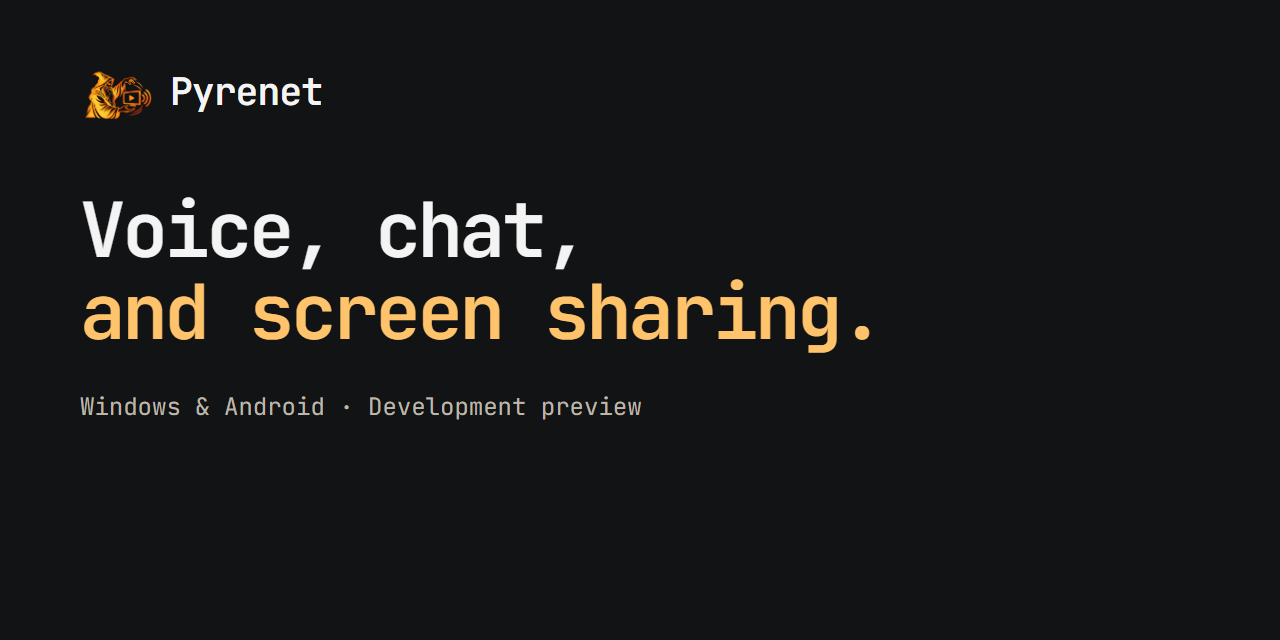
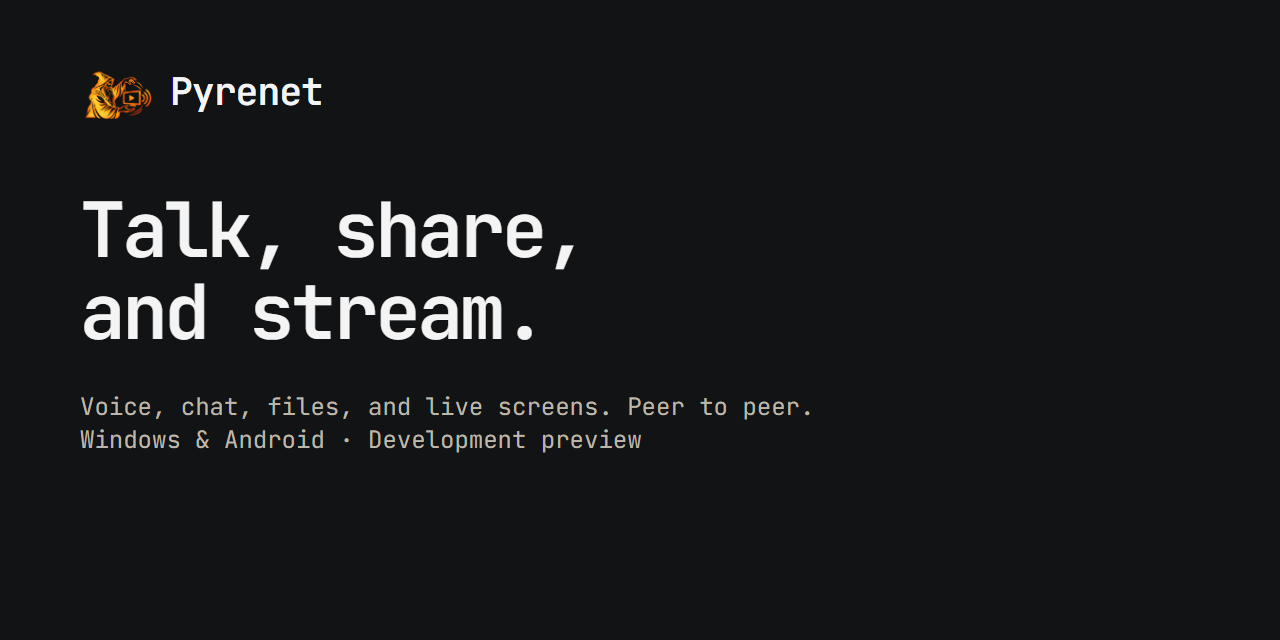
Clarify peer-to-peer media positioning and simplify the hero

Changed region(s): [[0.0625, 0.3125, 0.6875, 0.5625], [0.0625, 0.625, 0.625, 0.7188]]

diff --git a/index.html b/index.html
@@ -5,9 +5,9 @@
   <meta name="viewport" content="width=device-width, initial-scale=1">
   <meta name="theme-color" content="#0b0d12">
   <meta name="pyrenet-version" content="0.3.3-preview.2">
-  <meta name="description" content="Start a call, share a window, and talk through what’s on screen. Share from Windows. Watch on Windows or Android. Explore the Pyrenet preview.">
+  <meta name="description" content="A peer-to-peer media app for voice, chat, file sharing, and live screens. Share from Windows. Watch on Windows or Android. Explore the Pyrenet preview.">
 
-  <title>Voice, chat, and screen sharing — Pyrenet</title>
+  <title>Talk, share, and stream — Pyrenet</title>
   <link rel="canonical" href="https://antis0007.github.io/fastcast-downloads/">
   <link rel="icon" href="assets/favicon.png" sizes="64x64" type="image/png">
   <link rel="apple-touch-icon" href="assets/apple-touch-icon.png">
@@ -15,15 +15,15 @@
   <link rel="preload" href="assets/windows-share.png" as="image">
   <meta property="og:type" content="website">
   <meta property="og:site_name" content="Pyrenet">
-  <meta property="og:title" content="Voice, chat, and screen sharing — Pyrenet">
-  <meta property="og:description" content="Start a call, share a window, and talk through what’s on screen. Share from Windows. Watch on Windows or Android. Explore the Pyrenet preview.">
+  <meta property="og:title" content="Talk, share, and stream — Pyrenet">
+  <meta property="og:description" content="A peer-to-peer media app for voice, chat, file sharing, and live screens. Share from Windows. Watch on Windows or Android. Explore the Pyrenet preview.">
   <meta property="og:url" content="https://antis0007.github.io/fastcast-downloads/">
   <meta property="og:image" content="https://antis0007.github.io/fastcast-downloads/assets/og.png">
   <meta property="og:image:width" content="1280">
   <meta property="og:image:height" content="640">
-  <meta property="og:image:alt" content="Pyrenet. Voice, chat, and screen sharing. Windows and Android preview.">
+  <meta property="og:image:alt" content="Pyrenet. Talk, share, and stream. Peer-to-peer voice, chat, files, and live screens. Windows and Android preview.">
   <meta name="twitter:card" content="summary_large_image">
-  <script type="application/ld+json">{"@context": "https://schema.org", "@type": "SoftwareApplication", "name": "Pyrenet", "applicationCategory": "MultimediaApplication", "operatingSystem": "Windows (send and receive); Android 8+ (receive only)", "softwareVersion": "0.3.3-preview.2", "url": "https://antis0007.github.io/fastcast-downloads/", "downloadUrl": "https://antis0007.github.io/fastcast-downloads/downloads.html", "image": "https://antis0007.github.io/fastcast-downloads/assets/og.png", "description": "Start a call, share a window, and talk through what’s on screen. Share from Windows. Watch on Windows or Android. Explore the Pyrenet preview.", "offers": {"@type": "Offer", "price": "0", "priceCurrency": "USD", "description": "Screen sharing does not require an account. Friends, calls, rooms and files use a device-owned account in this preview."}}</script>
+  <script type="application/ld+json">{"@context": "https://schema.org", "@type": "SoftwareApplication", "name": "Pyrenet", "applicationCategory": "MultimediaApplication", "operatingSystem": "Windows (send and receive); Android 8+ (receive only)", "softwareVersion": "0.3.3-preview.2", "url": "https://antis0007.github.io/fastcast-downloads/", "downloadUrl": "https://antis0007.github.io/fastcast-downloads/downloads.html", "image": "https://antis0007.github.io/fastcast-downloads/assets/og.png", "description": "A peer-to-peer media app for voice, chat, file sharing, and live screens. Share from Windows. Watch on Windows or Android. Explore the Pyrenet preview.", "offers": {"@type": "Offer", "price": "0", "priceCurrency": "USD", "description": "Screen sharing does not require an account. Friends, calls, rooms and files use a device-owned account in this preview."}}</script>
   <script src="site.js" defer></script>
   <script src="wizard-fx.js" defer></script>
 </head>
@@ -42,8 +42,8 @@
   <main id="main" tabindex="-1"><section class="hero wrap" aria-labelledby="hero-title">
   <div class="hero-copy">
     <p class="eyebrow">Windows &amp; Android · Free preview</p>
-    <h1 id="hero-title">Voice, chat,<br><span>and screen sharing.</span></h1>
-    <p class="lede">Start a call, share a window, and talk through what’s on screen.</p>
+    <h1 id="hero-title">Talk, share, and stream.</h1>
+    <p class="lede">A peer-to-peer media app for voice, chat, file sharing, and live screens.</p>
     <div class="actions">
       <a class="button primary" data-download="windows" href="https://github.com/antis0007/fastcast-downloads/releases/download/v0.3.3-preview.2/FastCast-0.3.3-preview.2-Setup.exe">Download for Windows <span aria-hidden="true">↓</span></a>
       <a class="button" data-download="android" href="https://github.com/antis0007/fastcast-downloads/releases/download/v0.3.3-preview.2/FastCast-0.3.3-preview.2-Android.apk">Get the Android app <span aria-hidden="true">↓</span></a>
@@ -224,7 +224,7 @@
 </section>
 </main>
   <footer class="site-footer wrap">
-    <div class="footer-intro"><a class="brand footer-brand" href="index.html" aria-label="Pyrenet home"><img class="brand-mark" src="assets/fastcast-wizard.webp" width="1203" height="926" alt=""><span class="brand-wordmark">Pyrenet</span></a><p>Voice, chat, and screen sharing.</p><p class="small-copy">Screen sharing does not require an account. Friends, calls, rooms and files use a device-owned account in this preview.</p><p class="small-copy">Native application source is maintained separately. This repository publishes the website and preview packages only.</p></div>
+    <div class="footer-intro"><a class="brand footer-brand" href="index.html" aria-label="Pyrenet home"><img class="brand-mark" src="assets/fastcast-wizard.webp" width="1203" height="926" alt=""><span class="brand-wordmark">Pyrenet</span></a><p>Talk, share, and stream.</p><p class="small-copy">Screen sharing does not require an account. Friends, calls, rooms and files use a device-owned account in this preview.</p><p class="small-copy">Native application source is maintained separately. This repository publishes the website and preview packages only.</p></div>
     <nav aria-label="Product links"><h2>Product</h2><a href="product.html">Overview</a><a href="downloads.html">Downloads</a><a href="platforms.html">Platforms</a><a href="releases.html">Release notes</a></nav>
     <nav aria-label="Resources"><h2>Resources</h2><a href="get-started.html">Setup</a><a href="help.html">Help</a><a href="community.html">Bugs</a><a href="privacy.html">Privacy</a></nav>
     <nav aria-label="More"><h2>More</h2><a href="why-pyrenet.html">Why Pyrenet</a><a href="calls-and-rooms.html">Calls & rooms</a><a href="how-it-works.html">How it works</a><a href="roadmap.html">Roadmap</a><a href="bandwidth.html">Bandwidth calculator</a><a href="data-and-privacy.html">Data & privacy compared</a></nav>

diff --git a/privacy.html b/privacy.html
@@ -21,7 +21,7 @@
   <meta property="og:image" content="https://antis0007.github.io/fastcast-downloads/assets/og.png">
   <meta property="og:image:width" content="1280">
   <meta property="og:image:height" content="640">
-  <meta property="og:image:alt" content="Pyrenet. Voice, chat, and screen sharing. Windows and Android preview.">
+  <meta property="og:image:alt" content="Pyrenet. Talk, share, and stream. Peer-to-peer voice, chat, files, and live screens. Windows and Android preview.">
   <meta name="twitter:card" content="summary_large_image">
 
   <script src="site.js" defer></script>
@@ -43,7 +43,7 @@
 <div class="wrap reading-column"><section><h2>This website</h2><p>The Pyrenet website is a static site hosted on GitHub Pages. Its code includes no analytics, advertising scripts, tracking pixels, account system, or billing forms. Fonts and site images are hosted with the website.</p><p>The help search runs in your browser. Search terms are not sent to Pyrenet. The site’s own JavaScript does not set cookies or save browser storage.</p></section><section><h2>GitHub hosting, downloads, and feedback</h2><p>GitHub serves this site and the release downloads. Visiting those services can involve request logging under <a href="https://docs.github.com/en/site-policy/privacy-policies/github-general-privacy-statement">GitHub’s privacy statement</a>.</p><p>Feedback links lead to public GitHub issues. Anything you post there is public, and posting requires a GitHub account. Avoid sharing personal information or private session details.</p></section><section><h2>Screen content and invitations</h2><p>An entire-screen share can include notifications and personal information. Choose a specific window where appropriate and review what is visible before starting.</p><p>Treat invitations and recovery codes as private. Do not attach them to bug reports or leave them visible in screenshots. Enable microphone, audio, and remote input only when intended for the session.</p></section><section><h2>Automatic network discovery</h2><p>When a receiver is waiting for a connection, it automatically contacts Pyrenet's own STUN service, falling back to Cloudflare's and Twilio's public STUN services, to discover a reachable address, and asks your router (via UPnP, NAT-PMP, or PCP) to open a temporary port mapping. These requests happen every time the receiver starts. This public preview has no setting to turn them off.</p><p>The STUN providers see the receiver's public IP address and the fact that a STUN request was made; they do not see screen content, audio, or account information. If a session cannot reach its peer directly, the Pyrenet relay forwards that session's media and therefore carries it. Your router sees the local mapping request. Router leases expire on their own (around two hours) and are renewed only while the receiver is active.</p></section><section><h2>App privacy and security scope</h2><p>This page describes the website and practical sharing precautions. It is not a security audit of the native app, a claim of universal end-to-end privacy, or a guarantee about every device and network.</p><p>For the current package’s implementation and testing boundaries, read the <a href="releases.html">release notes</a>. If you report a suspected security issue in the public tracker, start with a minimal description and omit credentials, private data, and exploit details.</p></section></div>
 </main>
   <footer class="site-footer wrap">
-    <div class="footer-intro"><a class="brand footer-brand" href="index.html" aria-label="Pyrenet home"><img class="brand-mark" src="assets/fastcast-wizard.webp" width="1203" height="926" alt=""><span class="brand-wordmark">Pyrenet</span></a><p>Voice, chat, and screen sharing.</p><p class="small-copy">Screen sharing does not require an account. Friends, calls, rooms and files use a device-owned account in this preview.</p><p class="small-copy">Native application source is maintained separately. This repository publishes the website and preview packages only.</p></div>
+    <div class="footer-intro"><a class="brand footer-brand" href="index.html" aria-label="Pyrenet home"><img class="brand-mark" src="assets/fastcast-wizard.webp" width="1203" height="926" alt=""><span class="brand-wordmark">Pyrenet</span></a><p>Talk, share, and stream.</p><p class="small-copy">Screen sharing does not require an account. Friends, calls, rooms and files use a device-owned account in this preview.</p><p class="small-copy">Native application source is maintained separately. This repository publishes the website and preview packages only.</p></div>
     <nav aria-label="Product links"><h2>Product</h2><a href="product.html">Overview</a><a href="downloads.html">Downloads</a><a href="platforms.html">Platforms</a><a href="releases.html">Release notes</a></nav>
     <nav aria-label="Resources"><h2>Resources</h2><a href="get-started.html">Setup</a><a href="help.html">Help</a><a href="community.html">Bugs</a><a href="privacy.html" aria-current="page">Privacy</a></nav>
     <nav aria-label="More"><h2>More</h2><a href="why-pyrenet.html">Why Pyrenet</a><a href="calls-and-rooms.html">Calls & rooms</a><a href="how-it-works.html">How it works</a><a href="roadmap.html">Roadmap</a><a href="bandwidth.html">Bandwidth calculator</a><a href="data-and-privacy.html">Data & privacy compared</a></nav>

diff --git a/downloads.html b/downloads.html
@@ -21,9 +21,9 @@
   <meta property="og:image" content="https://antis0007.github.io/fastcast-downloads/assets/og.png">
   <meta property="og:image:width" content="1280">
   <meta property="og:image:height" content="640">
-  <meta property="og:image:alt" content="Pyrenet. Voice, chat, and screen sharing. Windows and Android preview.">
+  <meta property="og:image:alt" content="Pyrenet. Talk, share, and stream. Peer-to-peer voice, chat, files, and live screens. Windows and Android preview.">
   <meta name="twitter:card" content="summary_large_image">
-  <script type="application/ld+json">{"@context": "https://schema.org", "@type": "SoftwareApplication", "name": "Pyrenet", "applicationCategory": "MultimediaApplication", "operatingSystem": "Windows (send and receive); Android 8+ (receive only)", "softwareVersion": "0.3.3-preview.2", "url": "https://antis0007.github.io/fastcast-downloads/", "downloadUrl": "https://antis0007.github.io/fastcast-downloads/downloads.html", "image": "https://antis0007.github.io/fastcast-downloads/assets/og.png", "description": "Start a call, share a window, and talk through what’s on screen. Share from Windows. Watch on Windows or Android. Explore the Pyrenet preview.", "offers": {"@type": "Offer", "price": "0", "priceCurrency": "USD", "description": "Screen sharing does not require an account. Friends, calls, rooms and files use a device-owned account in this preview."}}</script>
+  <script type="application/ld+json">{"@context": "https://schema.org", "@type": "SoftwareApplication", "name": "Pyrenet", "applicationCategory": "MultimediaApplication", "operatingSystem": "Windows (send and receive); Android 8+ (receive only)", "softwareVersion": "0.3.3-preview.2", "url": "https://antis0007.github.io/fastcast-downloads/", "downloadUrl": "https://antis0007.github.io/fastcast-downloads/downloads.html", "image": "https://antis0007.github.io/fastcast-downloads/assets/og.png", "description": "A peer-to-peer media app for voice, chat, file sharing, and live screens. Share from Windows. Watch on Windows or Android. Explore the Pyrenet preview.", "offers": {"@type": "Offer", "price": "0", "priceCurrency": "USD", "description": "Screen sharing does not require an account. Friends, calls, rooms and files use a device-owned account in this preview."}}</script>
   <script src="site.js" defer></script>
 
 </head>
@@ -53,7 +53,7 @@
 <section class="closing-cta wrap"><div><h2>Set up screen sharing</h2><p>After installing matching versions, create an invitation on the watching device.</p></div><a class="button" href="get-started.html">Setup →</a></section>
 </main>
   <footer class="site-footer wrap">
-    <div class="footer-intro"><a class="brand footer-brand" href="index.html" aria-label="Pyrenet home"><img class="brand-mark" src="assets/fastcast-wizard.webp" width="1203" height="926" alt=""><span class="brand-wordmark">Pyrenet</span></a><p>Voice, chat, and screen sharing.</p><p class="small-copy">Screen sharing does not require an account. Friends, calls, rooms and files use a device-owned account in this preview.</p><p class="small-copy">Native application source is maintained separately. This repository publishes the website and preview packages only.</p></div>
+    <div class="footer-intro"><a class="brand footer-brand" href="index.html" aria-label="Pyrenet home"><img class="brand-mark" src="assets/fastcast-wizard.webp" width="1203" height="926" alt=""><span class="brand-wordmark">Pyrenet</span></a><p>Talk, share, and stream.</p><p class="small-copy">Screen sharing does not require an account. Friends, calls, rooms and files use a device-owned account in this preview.</p><p class="small-copy">Native application source is maintained separately. This repository publishes the website and preview packages only.</p></div>
     <nav aria-label="Product links"><h2>Product</h2><a href="product.html">Overview</a><a href="downloads.html" aria-current="page">Downloads</a><a href="platforms.html">Platforms</a><a href="releases.html">Release notes</a></nav>
     <nav aria-label="Resources"><h2>Resources</h2><a href="get-started.html">Setup</a><a href="help.html">Help</a><a href="community.html">Bugs</a><a href="privacy.html">Privacy</a></nav>
     <nav aria-label="More"><h2>More</h2><a href="why-pyrenet.html">Why Pyrenet</a><a href="calls-and-rooms.html">Calls & rooms</a><a href="how-it-works.html">How it works</a><a href="roadmap.html">Roadmap</a><a href="bandwidth.html">Bandwidth calculator</a><a href="data-and-privacy.html">Data & privacy compared</a></nav>

diff --git a/404.html b/404.html
@@ -21,7 +21,7 @@
   <meta property="og:image" content="https://antis0007.github.io/fastcast-downloads/assets/og.png">
   <meta property="og:image:width" content="1280">
   <meta property="og:image:height" content="640">
-  <meta property="og:image:alt" content="Pyrenet. Voice, chat, and screen sharing. Windows and Android preview.">
+  <meta property="og:image:alt" content="Pyrenet. Talk, share, and stream. Peer-to-peer voice, chat, files, and live screens. Windows and Android preview.">
   <meta name="twitter:card" content="summary_large_image">
 
   <script src="https://antis0007.github.io/fastcast-downloads/site.js" defer></script>
@@ -42,7 +42,7 @@
   <main id="main" tabindex="-1"><section class="page-hero wrap"><h1>Page not found</h1><p class="lede">This address may be incorrect or the page may have moved. Use the links below to find downloads and help.</p><div class="actions"><a class="button primary" href="https://antis0007.github.io/fastcast-downloads/index.html">Home →</a><a class="text-link" href="https://antis0007.github.io/fastcast-downloads/downloads.html">Downloads ↓</a><a class="text-link" href="https://antis0007.github.io/fastcast-downloads/help.html">Help →</a></div></section>
 </main>
   <footer class="site-footer wrap">
-    <div class="footer-intro"><a class="brand footer-brand" href="https://antis0007.github.io/fastcast-downloads/index.html" aria-label="Pyrenet home"><img class="brand-mark" src="https://antis0007.github.io/fastcast-downloads/assets/fastcast-wizard.webp" width="1203" height="926" alt=""><span class="brand-wordmark">Pyrenet</span></a><p>Voice, chat, and screen sharing.</p><p class="small-copy">Screen sharing does not require an account. Friends, calls, rooms and files use a device-owned account in this preview.</p><p class="small-copy">Native application source is maintained separately. This repository publishes the website and preview packages only.</p></div>
+    <div class="footer-intro"><a class="brand footer-brand" href="https://antis0007.github.io/fastcast-downloads/index.html" aria-label="Pyrenet home"><img class="brand-mark" src="https://antis0007.github.io/fastcast-downloads/assets/fastcast-wizard.webp" width="1203" height="926" alt=""><span class="brand-wordmark">Pyrenet</span></a><p>Talk, share, and stream.</p><p class="small-copy">Screen sharing does not require an account. Friends, calls, rooms and files use a device-owned account in this preview.</p><p class="small-copy">Native application source is maintained separately. This repository publishes the website and preview packages only.</p></div>
     <nav aria-label="Product links"><h2>Product</h2><a href="https://antis0007.github.io/fastcast-downloads/product.html">Overview</a><a href="https://antis0007.github.io/fastcast-downloads/downloads.html">Downloads</a><a href="https://antis0007.github.io/fastcast-downloads/platforms.html">Platforms</a><a href="https://antis0007.github.io/fastcast-downloads/releases.html">Release notes</a></nav>
     <nav aria-label="Resources"><h2>Resources</h2><a href="https://antis0007.github.io/fastcast-downloads/get-started.html">Setup</a><a href="https://antis0007.github.io/fastcast-downloads/help.html">Help</a><a href="https://antis0007.github.io/fastcast-downloads/community.html">Bugs</a><a href="https://antis0007.github.io/fastcast-downloads/privacy.html">Privacy</a></nav>
     <nav aria-label="More"><h2>More</h2><a href="https://antis0007.github.io/fastcast-downloads/why-pyrenet.html">Why Pyrenet</a><a href="https://antis0007.github.io/fastcast-downloads/calls-and-rooms.html">Calls & rooms</a><a href="https://antis0007.github.io/fastcast-downloads/how-it-works.html">How it works</a><a href="https://antis0007.github.io/fastcast-downloads/roadmap.html">Roadmap</a><a href="https://antis0007.github.io/fastcast-downloads/bandwidth.html">Bandwidth calculator</a><a href="https://antis0007.github.io/fastcast-downloads/data-and-privacy.html">Data & privacy compared</a></nav>

diff --git a/how-it-works.html b/how-it-works.html
@@ -21,7 +21,7 @@
   <meta property="og:image" content="https://antis0007.github.io/fastcast-downloads/assets/og.png">
   <meta property="og:image:width" content="1280">
   <meta property="og:image:height" content="640">
-  <meta property="og:image:alt" content="Pyrenet. Voice, chat, and screen sharing. Windows and Android preview.">
+  <meta property="og:image:alt" content="Pyrenet. Talk, share, and stream. Peer-to-peer voice, chat, files, and live screens. Windows and Android preview.">
   <meta name="twitter:card" content="summary_large_image">
 
   <script src="site.js" defer></script>
@@ -125,7 +125,7 @@
 <section class="section wrap split-section" id="outside"><div><h2>Preparing your<br>first session</h2></div><div><p>Use a specific window when practical, review audio and input permissions, and share invitations through a channel you trust. Start with a matching Windows/Android release pair and a LAN test to separate setup problems from internet reachability.</p><p>The diagrams describe supported paths. The <a href="releases.html">release evidence</a> says which paths have actually been observed working.</p><a class="text-link" href="get-started.html">Set up your first session →</a></div></section>
 </main>
   <footer class="site-footer wrap">
-    <div class="footer-intro"><a class="brand footer-brand" href="index.html" aria-label="Pyrenet home"><img class="brand-mark" src="assets/fastcast-wizard.webp" width="1203" height="926" alt=""><span class="brand-wordmark">Pyrenet</span></a><p>Voice, chat, and screen sharing.</p><p class="small-copy">Screen sharing does not require an account. Friends, calls, rooms and files use a device-owned account in this preview.</p><p class="small-copy">Native application source is maintained separately. This repository publishes the website and preview packages only.</p></div>
+    <div class="footer-intro"><a class="brand footer-brand" href="index.html" aria-label="Pyrenet home"><img class="brand-mark" src="assets/fastcast-wizard.webp" width="1203" height="926" alt=""><span class="brand-wordmark">Pyrenet</span></a><p>Talk, share, and stream.</p><p class="small-copy">Screen sharing does not require an account. Friends, calls, rooms and files use a device-owned account in this preview.</p><p class="small-copy">Native application source is maintained separately. This repository publishes the website and preview packages only.</p></div>
     <nav aria-label="Product links"><h2>Product</h2><a href="product.html">Overview</a><a href="downloads.html">Downloads</a><a href="platforms.html">Platforms</a><a href="releases.html">Release notes</a></nav>
     <nav aria-label="Resources"><h2>Resources</h2><a href="get-started.html">Setup</a><a href="help.html">Help</a><a href="community.html">Bugs</a><a href="privacy.html">Privacy</a></nav>
     <nav aria-label="More"><h2>More</h2><a href="why-pyrenet.html">Why Pyrenet</a><a href="calls-and-rooms.html">Calls & rooms</a><a href="how-it-works.html" aria-current="page">How it works</a><a href="roadmap.html">Roadmap</a><a href="bandwidth.html">Bandwidth calculator</a><a href="data-and-privacy.html">Data & privacy compared</a></nav>

diff --git a/calls-and-rooms.html b/calls-and-rooms.html
@@ -21,7 +21,7 @@
   <meta property="og:image" content="https://antis0007.github.io/fastcast-downloads/assets/og.png">
   <meta property="og:image:width" content="1280">
   <meta property="og:image:height" content="640">
-  <meta property="og:image:alt" content="Pyrenet. Voice, chat, and screen sharing. Windows and Android preview.">
+  <meta property="og:image:alt" content="Pyrenet. Talk, share, and stream. Peer-to-peer voice, chat, files, and live screens. Windows and Android preview.">
   <meta name="twitter:card" content="summary_large_image">
 
   <script src="site.js" defer></script>
@@ -91,7 +91,7 @@
 <section class="wrap statement"><h2>Accounts are held by the device</h2><p>A device-held key identifies an account. The coordination service carries profiles, friends and invitations, including profile pictures you can choose, change or remove on either platform. It is a small coordination service rather than a fully decentralised identity system, and this site does not claim otherwise.</p></section>
 </main>
   <footer class="site-footer wrap">
-    <div class="footer-intro"><a class="brand footer-brand" href="index.html" aria-label="Pyrenet home"><img class="brand-mark" src="assets/fastcast-wizard.webp" width="1203" height="926" alt=""><span class="brand-wordmark">Pyrenet</span></a><p>Voice, chat, and screen sharing.</p><p class="small-copy">Screen sharing does not require an account. Friends, calls, rooms and files use a device-owned account in this preview.</p><p class="small-copy">Native application source is maintained separately. This repository publishes the website and preview packages only.</p></div>
+    <div class="footer-intro"><a class="brand footer-brand" href="index.html" aria-label="Pyrenet home"><img class="brand-mark" src="assets/fastcast-wizard.webp" width="1203" height="926" alt=""><span class="brand-wordmark">Pyrenet</span></a><p>Talk, share, and stream.</p><p class="small-copy">Screen sharing does not require an account. Friends, calls, rooms and files use a device-owned account in this preview.</p><p class="small-copy">Native application source is maintained separately. This repository publishes the website and preview packages only.</p></div>
     <nav aria-label="Product links"><h2>Product</h2><a href="product.html">Overview</a><a href="downloads.html">Downloads</a><a href="platforms.html">Platforms</a><a href="releases.html">Release notes</a></nav>
     <nav aria-label="Resources"><h2>Resources</h2><a href="get-started.html">Setup</a><a href="help.html">Help</a><a href="community.html">Bugs</a><a href="privacy.html">Privacy</a></nav>
     <nav aria-label="More"><h2>More</h2><a href="why-pyrenet.html">Why Pyrenet</a><a href="calls-and-rooms.html" aria-current="page">Calls & rooms</a><a href="how-it-works.html">How it works</a><a href="roadmap.html">Roadmap</a><a href="bandwidth.html">Bandwidth calculator</a><a href="data-and-privacy.html">Data & privacy compared</a></nav>

diff --git a/releases.html b/releases.html
@@ -21,7 +21,7 @@
   <meta property="og:image" content="https://antis0007.github.io/fastcast-downloads/assets/og.png">
   <meta property="og:image:width" content="1280">
   <meta property="og:image:height" content="640">
-  <meta property="og:image:alt" content="Pyrenet. Voice, chat, and screen sharing. Windows and Android preview.">
+  <meta property="og:image:alt" content="Pyrenet. Talk, share, and stream. Peer-to-peer voice, chat, files, and live screens. Windows and Android preview.">
   <meta name="twitter:card" content="summary_large_image">
 
   <script src="site.js" defer></script>
@@ -130,7 +130,7 @@
 <section class="wrap statement"><h2>Screenshots and release versions</h2><p>The screenshots on this site come from a development interface captured September 20, 2026, so they can differ in detail from the package behind a given tag. Use the version and file links in each release entry to identify the package you are downloading.</p></section>
 </main>
   <footer class="site-footer wrap">
-    <div class="footer-intro"><a class="brand footer-brand" href="index.html" aria-label="Pyrenet home"><img class="brand-mark" src="assets/fastcast-wizard.webp" width="1203" height="926" alt=""><span class="brand-wordmark">Pyrenet</span></a><p>Voice, chat, and screen sharing.</p><p class="small-copy">Screen sharing does not require an account. Friends, calls, rooms and files use a device-owned account in this preview.</p><p class="small-copy">Native application source is maintained separately. This repository publishes the website and preview packages only.</p></div>
+    <div class="footer-intro"><a class="brand footer-brand" href="index.html" aria-label="Pyrenet home"><img class="brand-mark" src="assets/fastcast-wizard.webp" width="1203" height="926" alt=""><span class="brand-wordmark">Pyrenet</span></a><p>Talk, share, and stream.</p><p class="small-copy">Screen sharing does not require an account. Friends, calls, rooms and files use a device-owned account in this preview.</p><p class="small-copy">Native application source is maintained separately. This repository publishes the website and preview packages only.</p></div>
     <nav aria-label="Product links"><h2>Product</h2><a href="product.html">Overview</a><a href="downloads.html">Downloads</a><a href="platforms.html">Platforms</a><a href="releases.html" aria-current="page">Release notes</a></nav>
     <nav aria-label="Resources"><h2>Resources</h2><a href="get-started.html">Setup</a><a href="help.html">Help</a><a href="community.html">Bugs</a><a href="privacy.html">Privacy</a></nav>
     <nav aria-label="More"><h2>More</h2><a href="why-pyrenet.html">Why Pyrenet</a><a href="calls-and-rooms.html">Calls & rooms</a><a href="how-it-works.html">How it works</a><a href="roadmap.html">Roadmap</a><a href="bandwidth.html">Bandwidth calculator</a><a href="data-and-privacy.html">Data & privacy compared</a></nav>

diff --git a/help.html b/help.html
@@ -21,7 +21,7 @@
   <meta property="og:image" content="https://antis0007.github.io/fastcast-downloads/assets/og.png">
   <meta property="og:image:width" content="1280">
   <meta property="og:image:height" content="640">
-  <meta property="og:image:alt" content="Pyrenet. Voice, chat, and screen sharing. Windows and Android preview.">
+  <meta property="og:image:alt" content="Pyrenet. Talk, share, and stream. Peer-to-peer voice, chat, files, and live screens. Windows and Android preview.">
   <meta name="twitter:card" content="summary_large_image">
 
   <script src="site.js" defer></script>
@@ -82,7 +82,7 @@
 <section class="closing-cta wrap"><div><h2>Report a problem</h2><p>Include the app version, both device models, and the exact error. Remove invitations and private information before posting.</p></div><a class="button" href="https://github.com/antis0007/fastcast-downloads/issues/new?template=bug_report.yml">Open a bug ↗</a></section>
 </main>
   <footer class="site-footer wrap">
-    <div class="footer-intro"><a class="brand footer-brand" href="index.html" aria-label="Pyrenet home"><img class="brand-mark" src="assets/fastcast-wizard.webp" width="1203" height="926" alt=""><span class="brand-wordmark">Pyrenet</span></a><p>Voice, chat, and screen sharing.</p><p class="small-copy">Screen sharing does not require an account. Friends, calls, rooms and files use a device-owned account in this preview.</p><p class="small-copy">Native application source is maintained separately. This repository publishes the website and preview packages only.</p></div>
+    <div class="footer-intro"><a class="brand footer-brand" href="index.html" aria-label="Pyrenet home"><img class="brand-mark" src="assets/fastcast-wizard.webp" width="1203" height="926" alt=""><span class="brand-wordmark">Pyrenet</span></a><p>Talk, share, and stream.</p><p class="small-copy">Screen sharing does not require an account. Friends, calls, rooms and files use a device-owned account in this preview.</p><p class="small-copy">Native application source is maintained separately. This repository publishes the website and preview packages only.</p></div>
     <nav aria-label="Product links"><h2>Product</h2><a href="product.html">Overview</a><a href="downloads.html">Downloads</a><a href="platforms.html">Platforms</a><a href="releases.html">Release notes</a></nav>
     <nav aria-label="Resources"><h2>Resources</h2><a href="get-started.html">Setup</a><a href="help.html" aria-current="page">Help</a><a href="community.html">Bugs</a><a href="privacy.html">Privacy</a></nav>
     <nav aria-label="More"><h2>More</h2><a href="why-pyrenet.html">Why Pyrenet</a><a href="calls-and-rooms.html">Calls & rooms</a><a href="how-it-works.html">How it works</a><a href="roadmap.html">Roadmap</a><a href="bandwidth.html">Bandwidth calculator</a><a href="data-and-privacy.html">Data & privacy compared</a></nav>

diff --git a/why-pyrenet.html b/why-pyrenet.html
@@ -21,7 +21,7 @@
   <meta property="og:image" content="https://antis0007.github.io/fastcast-downloads/assets/og.png">
   <meta property="og:image:width" content="1280">
   <meta property="og:image:height" content="640">
-  <meta property="og:image:alt" content="Pyrenet. Voice, chat, and screen sharing. Windows and Android preview.">
+  <meta property="og:image:alt" content="Pyrenet. Talk, share, and stream. Peer-to-peer voice, chat, files, and live screens. Windows and Android preview.">
   <meta name="twitter:card" content="summary_large_image">
 
   <script src="site.js" defer></script>
@@ -58,7 +58,7 @@
 <section class="closing-cta wrap"><div><h2>Try Pyrenet</h2><p>Install matching versions on the sharing PC and viewing device, then try a session on your local network.</p></div><a class="button primary" href="downloads.html">Get Pyrenet ↓</a></section>
 </main>
   <footer class="site-footer wrap">
-    <div class="footer-intro"><a class="brand footer-brand" href="index.html" aria-label="Pyrenet home"><img class="brand-mark" src="assets/fastcast-wizard.webp" width="1203" height="926" alt=""><span class="brand-wordmark">Pyrenet</span></a><p>Voice, chat, and screen sharing.</p><p class="small-copy">Screen sharing does not require an account. Friends, calls, rooms and files use a device-owned account in this preview.</p><p class="small-copy">Native application source is maintained separately. This repository publishes the website and preview packages only.</p></div>
+    <div class="footer-intro"><a class="brand footer-brand" href="index.html" aria-label="Pyrenet home"><img class="brand-mark" src="assets/fastcast-wizard.webp" width="1203" height="926" alt=""><span class="brand-wordmark">Pyrenet</span></a><p>Talk, share, and stream.</p><p class="small-copy">Screen sharing does not require an account. Friends, calls, rooms and files use a device-owned account in this preview.</p><p class="small-copy">Native application source is maintained separately. This repository publishes the website and preview packages only.</p></div>
     <nav aria-label="Product links"><h2>Product</h2><a href="product.html">Overview</a><a href="downloads.html">Downloads</a><a href="platforms.html">Platforms</a><a href="releases.html">Release notes</a></nav>
     <nav aria-label="Resources"><h2>Resources</h2><a href="get-started.html">Setup</a><a href="help.html">Help</a><a href="community.html">Bugs</a><a href="privacy.html">Privacy</a></nav>
     <nav aria-label="More"><h2>More</h2><a href="why-pyrenet.html" aria-current="page">Why Pyrenet</a><a href="calls-and-rooms.html">Calls & rooms</a><a href="how-it-works.html">How it works</a><a href="roadmap.html">Roadmap</a><a href="bandwidth.html">Bandwidth calculator</a><a href="data-and-privacy.html">Data & privacy compared</a></nav>

diff --git a/community.html b/community.html
@@ -21,7 +21,7 @@
   <meta property="og:image" content="https://antis0007.github.io/fastcast-downloads/assets/og.png">
   <meta property="og:image:width" content="1280">
   <meta property="og:image:height" content="640">
-  <meta property="og:image:alt" content="Pyrenet. Voice, chat, and screen sharing. Windows and Android preview.">
+  <meta property="og:image:alt" content="Pyrenet. Talk, share, and stream. Peer-to-peer voice, chat, files, and live screens. Windows and Android preview.">
   <meta name="twitter:card" content="summary_large_image">
 
   <script src="site.js" defer></script>
@@ -46,7 +46,7 @@
 <section class="closing-cta wrap"><div><h2>Try the current preview</h2><p>Install matching versions on both devices and include those versions if you report a problem.</p></div><a class="button primary" href="downloads.html">Download ↓</a></section>
 </main>
   <footer class="site-footer wrap">
-    <div class="footer-intro"><a class="brand footer-brand" href="index.html" aria-label="Pyrenet home"><img class="brand-mark" src="assets/fastcast-wizard.webp" width="1203" height="926" alt=""><span class="brand-wordmark">Pyrenet</span></a><p>Voice, chat, and screen sharing.</p><p class="small-copy">Screen sharing does not require an account. Friends, calls, rooms and files use a device-owned account in this preview.</p><p class="small-copy">Native application source is maintained separately. This repository publishes the website and preview packages only.</p></div>
+    <div class="footer-intro"><a class="brand footer-brand" href="index.html" aria-label="Pyrenet home"><img class="brand-mark" src="assets/fastcast-wizard.webp" width="1203" height="926" alt=""><span class="brand-wordmark">Pyrenet</span></a><p>Talk, share, and stream.</p><p class="small-copy">Screen sharing does not require an account. Friends, calls, rooms and files use a device-owned account in this preview.</p><p class="small-copy">Native application source is maintained separately. This repository publishes the website and preview packages only.</p></div>
     <nav aria-label="Product links"><h2>Product</h2><a href="product.html">Overview</a><a href="downloads.html">Downloads</a><a href="platforms.html">Platforms</a><a href="releases.html">Release notes</a></nav>
     <nav aria-label="Resources"><h2>Resources</h2><a href="get-started.html">Setup</a><a href="help.html">Help</a><a href="community.html" aria-current="page">Bugs</a><a href="privacy.html">Privacy</a></nav>
     <nav aria-label="More"><h2>More</h2><a href="why-pyrenet.html">Why Pyrenet</a><a href="calls-and-rooms.html">Calls & rooms</a><a href="how-it-works.html">How it works</a><a href="roadmap.html">Roadmap</a><a href="bandwidth.html">Bandwidth calculator</a><a href="data-and-privacy.html">Data & privacy compared</a></nav>

diff --git a/roadmap.html b/roadmap.html
@@ -21,7 +21,7 @@
   <meta property="og:image" content="https://antis0007.github.io/fastcast-downloads/assets/og.png">
   <meta property="og:image:width" content="1280">
   <meta property="og:image:height" content="640">
-  <meta property="og:image:alt" content="Pyrenet. Voice, chat, and screen sharing. Windows and Android preview.">
+  <meta property="og:image:alt" content="Pyrenet. Talk, share, and stream. Peer-to-peer voice, chat, files, and live screens. Windows and Android preview.">
   <meta name="twitter:card" content="summary_large_image">
 
   <script src="site.js" defer></script>
@@ -58,7 +58,7 @@
 <section class="closing-cta wrap"><div><h2>Set up the current preview</h2><p>Install matching versions and create a private invitation on the watching device.</p></div><a class="button primary" href="get-started.html">Get started →</a></section>
 </main>
   <footer class="site-footer wrap">
-    <div class="footer-intro"><a class="brand footer-brand" href="index.html" aria-label="Pyrenet home"><img class="brand-mark" src="assets/fastcast-wizard.webp" width="1203" height="926" alt=""><span class="brand-wordmark">Pyrenet</span></a><p>Voice, chat, and screen sharing.</p><p class="small-copy">Screen sharing does not require an account. Friends, calls, rooms and files use a device-owned account in this preview.</p><p class="small-copy">Native application source is maintained separately. This repository publishes the website and preview packages only.</p></div>
+    <div class="footer-intro"><a class="brand footer-brand" href="index.html" aria-label="Pyrenet home"><img class="brand-mark" src="assets/fastcast-wizard.webp" width="1203" height="926" alt=""><span class="brand-wordmark">Pyrenet</span></a><p>Talk, share, and stream.</p><p class="small-copy">Screen sharing does not require an account. Friends, calls, rooms and files use a device-owned account in this preview.</p><p class="small-copy">Native application source is maintained separately. This repository publishes the website and preview packages only.</p></div>
     <nav aria-label="Product links"><h2>Product</h2><a href="product.html">Overview</a><a href="downloads.html">Downloads</a><a href="platforms.html">Platforms</a><a href="releases.html">Release notes</a></nav>
     <nav aria-label="Resources"><h2>Resources</h2><a href="get-started.html">Setup</a><a href="help.html">Help</a><a href="community.html">Bugs</a><a href="privacy.html">Privacy</a></nav>
     <nav aria-label="More"><h2>More</h2><a href="why-pyrenet.html">Why Pyrenet</a><a href="calls-and-rooms.html">Calls & rooms</a><a href="how-it-works.html">How it works</a><a href="roadmap.html" aria-current="page">Roadmap</a><a href="bandwidth.html">Bandwidth calculator</a><a href="data-and-privacy.html">Data & privacy compared</a></nav>

diff --git a/data-and-privacy.html b/data-and-privacy.html
@@ -21,7 +21,7 @@
   <meta property="og:image" content="https://antis0007.github.io/fastcast-downloads/assets/og.png">
   <meta property="og:image:width" content="1280">
   <meta property="og:image:height" content="640">
-  <meta property="og:image:alt" content="Pyrenet. Voice, chat, and screen sharing. Windows and Android preview.">
+  <meta property="og:image:alt" content="Pyrenet. Talk, share, and stream. Peer-to-peer voice, chat, files, and live screens. Windows and Android preview.">
   <meta name="twitter:card" content="summary_large_image">
 
   <script src="site.js" defer></script>
@@ -60,7 +60,7 @@
 <section class="closing-cta wrap"><div><h2>Download Pyrenet</h2><p>Screen sharing does not require an account; friends and calls use a device-owned account.</p></div><a class="button primary" href="downloads.html">Download ↓</a></section>
 </main>
   <footer class="site-footer wrap">
-    <div class="footer-intro"><a class="brand footer-brand" href="index.html" aria-label="Pyrenet home"><img class="brand-mark" src="assets/fastcast-wizard.webp" width="1203" height="926" alt=""><span class="brand-wordmark">Pyrenet</span></a><p>Voice, chat, and screen sharing.</p><p class="small-copy">Screen sharing does not require an account. Friends, calls, rooms and files use a device-owned account in this preview.</p><p class="small-copy">Native application source is maintained separately. This repository publishes the website and preview packages only.</p></div>
+    <div class="footer-intro"><a class="brand footer-brand" href="index.html" aria-label="Pyrenet home"><img class="brand-mark" src="assets/fastcast-wizard.webp" width="1203" height="926" alt=""><span class="brand-wordmark">Pyrenet</span></a><p>Talk, share, and stream.</p><p class="small-copy">Screen sharing does not require an account. Friends, calls, rooms and files use a device-owned account in this preview.</p><p class="small-copy">Native application source is maintained separately. This repository publishes the website and preview packages only.</p></div>
     <nav aria-label="Product links"><h2>Product</h2><a href="product.html">Overview</a><a href="downloads.html">Downloads</a><a href="platforms.html">Platforms</a><a href="releases.html">Release notes</a></nav>
     <nav aria-label="Resources"><h2>Resources</h2><a href="get-started.html">Setup</a><a href="help.html">Help</a><a href="community.html">Bugs</a><a href="privacy.html">Privacy</a></nav>
     <nav aria-label="More"><h2>More</h2><a href="why-pyrenet.html">Why Pyrenet</a><a href="calls-and-rooms.html">Calls & rooms</a><a href="how-it-works.html">How it works</a><a href="roadmap.html">Roadmap</a><a href="bandwidth.html">Bandwidth calculator</a><a href="data-and-privacy.html" aria-current="page">Data & privacy compared</a></nav>
